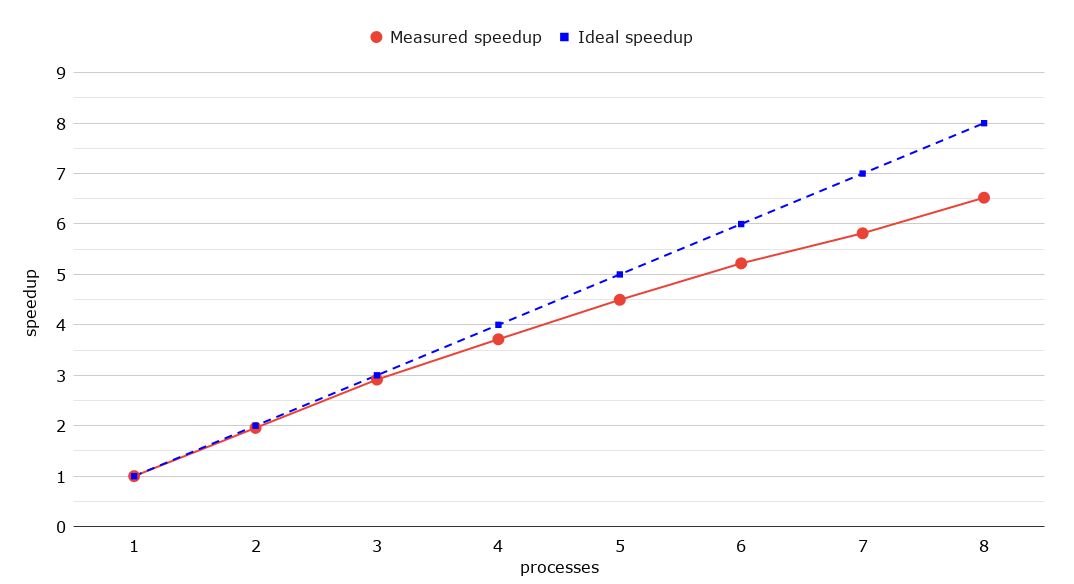
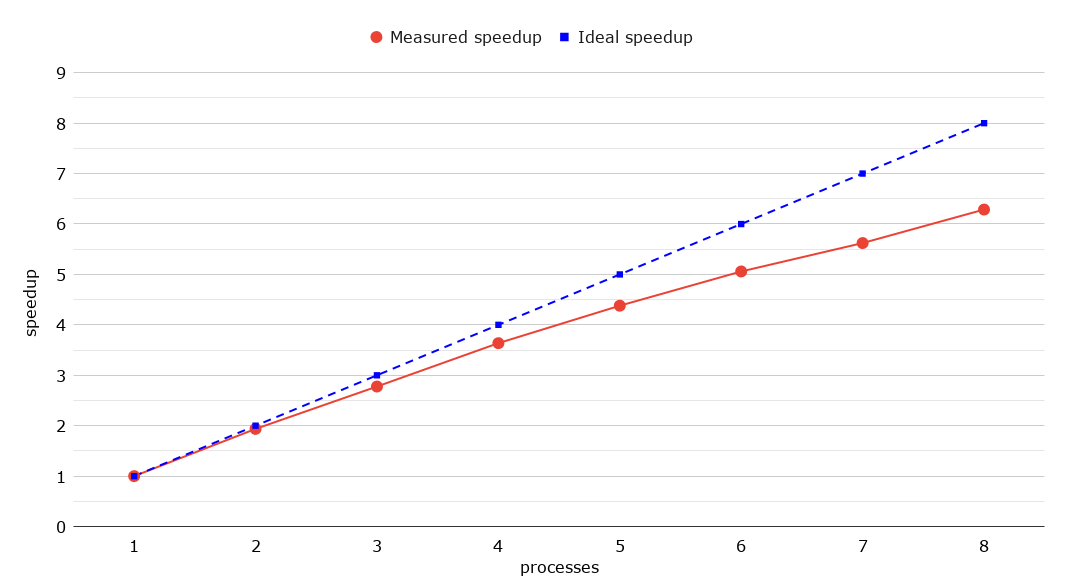
fixes

diff --git a/report/methodology.tex b/report/methodology.tex
@@ -4,10 +4,10 @@ It's easy to notice that the nested $i$ and $j$ for-loops in \textbf{Algorithm \
 could be the \emph{edge under analysis} for another process. For example process $P^1$ is writing in a cell while process $P^2$ is reading from the same cell, leading to a unpredictable final result
 if $P^1$'s writing comes before or after $P^2$'s reading.
 
-It seems that enabling parallelization requires some sort of blocking mechanism between processes, like a semaphore, but we prove that no data race can occur as in the previous example as far as $k$
+It seems that enabling parallelization requires some sort of blocking mechanism between processes, like a semaphore, but we prove that no data race can occur as in the previous example as far as the value of $k$
 is shared between processes. 
 
-Let's assume we have 2 processes, namely $P^1$ and $P^2$ and they have \emph{under analisys} $M_{i,j}$ and $M_{x,y}$ respectively, with $x \neq i$. 
+Let's assume we have 2 processes, namely $P^1$ and $P^2$, and they have \emph{under analisys} $M_{i,j}$ and $M_{x,y}$ respectively, with $x \neq i$ so that each process partitions the matrix horizontally. 
 At any point the following system of preconditions exists (the two inequalities are taken from \textbf{Algorithm \ref*{alg:fw1}} at line 10):
 
 \begin{flalign}\label{eq:sys1}
@@ -20,7 +20,7 @@ P^{2}_{x,y} & > & P^{2}_{x,k} & + & P^{2}_{k,y}
 
 \emph{i.e.} $P^1$ is reading values of $M_{i,k}$ and $M_{k,j}$ so it can decide if $M_{i,j}$ should be overwritten; 
 the same does $P^2$ with $M_{x,k}$, $M_{k,y}$ and $M_{x,y}$ respectively. \\
-In order to have a data race, the following must be true as well
+In order to have a data race, the following statement must be true as well
 
 \[(x = i \wedge k=j) \vee (k = i \wedge y = j)\]
 
@@ -43,12 +43,12 @@ following inequality:
 \end{flalign}
 Clearly no number can be greater than itself and this means that at this point the comparison made by $P^1$ is irrilevant
 and is always evalueted false. If $P^2$ writes after or before $P^1$'s evaluation does not really matter and thus 
-there is no data race as far as $k$ is the same for all the processes.
+there is no data race as far as $k$ is the same for all the running processes.
 
 This is really important because it assures that there is no need for locking mechanism on $M$ when it comes to
 parallelize the nested $i$ and $j$ for-loops and having no blocks guarantees better performance.
 
-So the strategy relies on dividing the matrix by rows and assigning an equal number of rows to each process.
+Now the strategy relies on dividing the matrix by rows and assigning an equal number of rows to each process.
 Once $k$ is set and it's shared among all processes, each process puts \emph{under analysis} every cell
 of its sub-matrix and selects its \emph{intermediate edges} depending on $k$.
 
@@ -64,8 +64,8 @@ Message Passing Interface (MPI) is a standardized and portable message-passing s
 The main strategy is based on scattering horizontally the whole matrix among all the process, so that
 each process can read a portion of the matrix of size $\frac{n^2}{p}$; then a \emph{process of competence}
 is chosen: as $k$ is in common (but never transmitted) to all the processes, there's always a cell in the $k$th
-row representing one of the two intermediate vertices for any process and there's always one process to which this row was assigned.
-The value $k$ is always "synchronized" between process because each for-loop involving $k$ starts with a collective communication
+row representing one of the two intermediate vertices for any process and there's always one process which this row was assigned to.
+The value $k$ is always "synchronized" among processes because each for-loop involving $k$ starts with a collective communication
 which implies a synchronization point among processes.
 
 \begin{figure}[h!]
@@ -75,7 +75,7 @@ which implies a synchronization point among processes.
 \caption{View of the data each thread can reach}                                                                                                                                            
 \label{fig:threads}                                                                                                                                                           
 \end{figure}
-Everytime $k$ changes, the $k$th row is broadcasted to the other processes by the process that owns the row;
+Everytime $k$ changes, the $k$th row is broadcasted by the \emph{process of competence} (the process that "owns" the row) to the other processes;
 a total of $k$ \texttt{MPI\_Bcast} operations are required. \par
 Once the $k$th row has been received, each process acts like the original FW in the $i$ and $j$ for-loops; obviously
 they each write values in their own local matrix. \par
@@ -130,12 +130,12 @@ the implementation uses 4 bytes to store one \texttt{int} and omitting the overh
 $k = n$                               &  \texttt{MPI\_Bcast}                 &  $4n^2(p-1)$ bytes                    \\ \hline
 1                                     &  \texttt{MPI\_Gather}                &  $4\frac{n^2(p-1)}{p}$ bytes         \\ \hline
 \end{tabular}
-\caption{Execution time of the \emph{MPI} FW}                                                                                                                                            
+\caption{Approximation of the size of each communication for \emph{MPI} FW}                                                                                                                                            
 \label{tab:comm}
 \end{table}
 \par
 
-Total communications can be expressed with the following formula, that can help to calculate the bandwidth of the network
+Total communications can be expressed with the following formula, that can help to calculate the bandwidth of the network required
 for this implementation:
 \[W_{comm} = 4(p-1)(1 + n^2(1 + \frac{2}{p})) \text{ bytes}\]
 This formula is important because the time spent on communications is time taken from the calculation and a network with an inadequate
@@ -151,9 +151,9 @@ $\textasciitilde 5.46$GB transferred  over the entire network; this means that e
 \end{figure}
 
 \textbf{Figure \ref*{fig:mpi-time}} shows the amount of time taken to initialize the MPI cluster and communicate during the execution of the \emph{MPI} FW. In this case a dense 
-$5040\times5040$ matrix is used for input and the MPI cluster was located in a star network with 1Gbps bandwith.
+$5040\times5040$ matrix is used as input and the MPI cluster was located in a star network with 1Gbps bandwith.
 
-The overhead has a quadratic or linear growth with respect to the number of vertices and or the number of processes respectively; 
+The overhead has a quadratic and linear growth with respect to the number of vertices and the number of processes respectively; 
 so with a medium-small matrix the time used in communication can exceed the 10\% of the total computational time. 
 But by increasing the size of the matrix to $12600\times12600$ the time used in communication drops to 4\%, with a total of 50 seconds. Thus the implementation fits well for huge matrixes, rather than medium ones.
 
@@ -265,11 +265,12 @@ workloads. Thus, OpenMP is enriched with a flexible model for
 irregular parallelism, providing parallel while loops and recursive
 data structures. \par
 The main advantage on using OpenMP is the ease of developing parallelisms
-with simple constructs that do not differ too much from the original implementation.
+with simple constructs that (often) do not differ too much from the original implementation.
 
 The snippet at \textbf{Algorithm \ref*{alg:omp}} shows the implementation used in this work: the matrix containing the
-distances between vertices is shared among all the threads, while the 3 nested for-loops are executed
-by each thread indipendentely.
+distances between vertices is shared among all the threads, while the two nested for-loops are executed
+by each thread indipendentely. The $k$th row is extracted by a single thread and shared among the other threads: this
+guarantees a sequential access to the $k$th row faster than accessing the same row directly on $M$, resulting in a speedup of up to $\textasciitilde31\%$.
 
 \begin{algorithm}[h!]
 
@@ -277,6 +278,8 @@ by each thread indipendentely.
 
 \texttt{\#pragma omp parallel num\_threads(t) shared(M, K)} private(k) \\
 \For{$k = 1 \rightarrow n$}{
+	\texttt{\#pragma omp master} \\
+	$K \leftarrow kthRow(M)$ \\
 	\texttt{\#pragma omp for private(i,j) schedule(dynamic)} \\
 	\For{$i = 1 \rightarrow n$}{
 		\For{$j = 1 \rightarrow n$}{
@@ -294,7 +297,8 @@ by each thread indipendentely.
 
 Despite the overhead that the dynamic scheduler entails, in this case it works better than a static one because the
 content of the sub-matrices varies from thread to thread so a group of threads may do more write operations on $M$ and a
-static scheduler would make wait the others until they finish. 
+static scheduler would make wait the others until they finish. We benchmarked a loss in performance from $\textasciitilde7\%$ to $\textasciitilde48\%$ when choosing a static scheduler over
+a dynamic one, depending on the size of the matrix.
  \\
 Also note that the solution does not implement a \texttt{collapse} directive because when we collapse multiple loops, OpenMP turns them into a single loop: there is one
 index that is constructed from \texttt{i} and \texttt{j} using division and modulo operations. This can
@@ -313,8 +317,8 @@ with the vertice under analysis for Thread 1 and Thread 2 respectively.
 \end{figure}
 
 
-We prove that no race condition may appear in this case. 
-No race condition can appear if $k$ is the same among the threads and threrfore there's no need to verify atomicity of the write operation;
+We already proved that no race condition may appear in this case. 
+No race condition can occur if $k$ is the same among the threads and threrfore there's no need to verify atomicity of the write operation;
 the lack of OpenMP directive like \texttt{atomic} or \texttt{critical} plays in favor of performance. \par
 
 The speedup of the solution is sligthy worse than the ideal speedup (see \textbf{Figure \ref*{fig:omp-speedup}})
@@ -328,7 +332,7 @@ The speedup of the solution is sligthy worse than the ideal speedup (see \textbf
 \end{figure}
 When scaling from 7 to 8 threads, we notice a slight deviation from the previous (almost) linear trend. That's because the measurement
 is taken from a 8-core/8-thread CPU, namely Intel Core i7-9700K, and because no other cores were free to manage the OS and its subprocesses, the scheduler
-divided this task among all the threads. So we have approximated the speedup without counting the fluctuations due to the management of the OS. \par
+divided this task among all the threads. So we interpolated the speedup, not counting the fluctuations due to the management of the OS. \par
 
 The efficiency, which stays always above $90\%$, is shown in \textbf{Figure \ref*{fig:omp-efficiency}} alongside with its theoretical counterpart.
 
@@ -532,7 +536,7 @@ Because each thread does little computation and uses high memory bandwidth, timi
 to \emph{serial-FW} and \emph{OMP} FW with 8 cores. \\
 In fact from \textbf{Figure \ref*{fig:cuda-time}} we see a speedup up to $87.8$ times compared to \emph{serial} FW
 and $12.34$ times compared to \emph{OMP} FW with 8 cores. We also notice that the maximum speedup is reached when the number of threads per block is equal to 128;
-that's because the occupancy of the Streaming Multiprocessors is at its peak and there are less threads wasted.
+that's because the occupancy of the Streaming Multiprocessors is at its peak and there are less wasted threads.
 \begin{figure}[h!]
 \centering                                                                        
 \includegraphics[width=3.5in]{diagrams/cuda-speedup}
@@ -628,9 +632,9 @@ so that each process can benefit from multithreading.
 broadcast($n$, $ROOT$) \\
 scatter($M$, $processes$)
 
-\texttt{\#pragma omp parallel num\_threads(t) shared(M, k, p)} \\
+\texttt{\#pragma omp parallel num\_threads(t) private(k) shared(M, K, p)} \\
 \For{$k = 1 \rightarrow n$}{
-	\texttt{\#pragma omp single} \\
+	\texttt{\#pragma omp master} \\
 	\If{$rank =$ \textnormal{findOwnerOfKthRow}($k$, $rank$)}{
 		$K \leftarrow $ getRow($M$, $k$) \\
 		broadcast($K$, $owner$) \\

diff --git a/report/implementations.tex b/report/implementations.tex
@@ -15,10 +15,10 @@ The program accepts 2 arguments:
 \begin{lstlisting}[basicstyle=\footnotesize\ttfamily]
 $ ./sequential.out <v> <d>
 \end{lstlisting}
-where \texttt{v} is the number of verteces, expressed ad positive integer, and \texttt{d} is the density of the presence of edges, expressed as an integer from 0 to 100.
+where \texttt{v} is the number of verteces, expressed as positive integer, and \texttt{d} is the density of the presence of edges, expressed as an integer from 0 to 100.
 \par
 The \texttt{gcc} version used for this work is 7.5.0 and the program ran on a Intel Core i7-9700K. \\
-Table \ref*{tab:seq-time} shows the execution time (expressed in milliseconds) depending on the number of vertices.
+\textbf{Table \ref*{tab:seq-time}} shows the execution time (expressed in milliseconds) depending on the number of vertices.
 
 
 \begin{table}[h!]
@@ -38,7 +38,7 @@ Table \ref*{tab:seq-time} shows the execution time (expressed in milliseconds) d
 \label{tab:seq-time} 
 \end{table}
 
-Figure \ref*{fig:seq-time} shows the trend of the execution time. 
+\textbf{Figure \ref*{fig:seq-time}} shows the trend of the execution time. 
 
 \begin{figure}[h!]
 \centering                                                                        
@@ -51,7 +51,7 @@ Figure \ref*{fig:seq-time} shows the trend of the execution time.
 
 It is easy to notice that the graph represents a 
 third grade curve; this is the interpolated function starting from the collected data:
-\[f(n) = 2.22n^3 - 18.83n^2 + 92.14n -94.84 \approx \Theta(n^3) \]
+\[f(n) = 2.22n^3 - 18.83n^2 + 92.14n -94.84 \in \Theta(n^3) \]
 
 
 
@@ -63,13 +63,13 @@ The program is compiled as it follows:
 \begin{lstlisting}[basicstyle=\footnotesize\ttfamily]
 $ mpicc -g -Wall mpi.c -o mpi.out -O3
 \end{lstlisting}
-Like the \emph{serial} version, the program accepts 2 arguments:
+Like the \emph{serial} version, the program accepts 2 arguments + 1 for $\texttt{mpirun}$:
 \begin{lstlisting}[basicstyle=\footnotesize\ttfamily]
 $ mpirun -np <p> mpi.out <v> <d>
 \end{lstlisting}
 The \texttt{MPI} version used for this work is 2.1.1 and the program ran on a cluster of 8 nodes over a LAN. \\
-Table \ref*{tab:mpi-time} shows the execution time (expressed in milliseconds) and the percentage of time spent in initialization and communication, depending on the number of processors; 
-the program computes the \emph{APSP} problem for 5040 vertices.
+\textbf{Table \ref*{tab:mpi-time}} shows the execution time (expressed in milliseconds) and the percentage of time spent in initialization and communication, depending on the number of processors; 
+in this case the program computed the \emph{APSP} problem for 5040 vertices.
 
 \begin{table}[h!]
 \centering
@@ -77,14 +77,14 @@ the program computes the \emph{APSP} problem for 5040 vertices.
 \hline
 \rowcolor[HTML]{F56B00} 
 {\color[HTML]{FFFFFF} \textbf{Processors}} & {\color[HTML]{FFFFFF} \textbf{Execution time}} & {\color[HTML]{FFFFFF} \textbf{MPI \%}} \\ \hline
-1                                          & 90842 ms                                               & 0.06                                 \\ \hline
-2                                          & 46608 ms                                               & 2.57                                 \\ \hline
-3                                          & 31309 ms                                               & 4.45                                \\ \hline
-4                                          & 24457 ms                                               & 5.47                                \\ \hline
-5                                          & 20200 ms                                               & 6.95                                 \\ \hline
-6                                          & 17403 ms                                               & 8.35                                \\ \hline
-7                                          & 15563 ms                                               & 9.12                                 \\ \hline
-8                                          & 13812 ms                                               & 10.1                                \\ \hline
+1                                          & 145447 ms                                               & 0.06                                 \\ \hline
+2                                          & 75059 ms                                               & 2.57                                 \\ \hline
+3                                          & 52336 ms                                               & 4.45                                \\ \hline
+4                                          & 39962 ms                                               & 5.47                                \\ \hline
+5                                          & 33184 ms                                               & 6.95                                 \\ \hline
+6                                          & 28731 ms                                               & 8.35                                \\ \hline
+7                                          & 25853 ms                                               & 9.50                                 \\ \hline
+8                                          & 23120 ms                                               & 11.00                                \\ \hline
 \end{tabular}
 \caption{Execution time of the \emph{MPI} FW}                                                                                                                                            
 \label{tab:mpi-time}
@@ -94,7 +94,7 @@ Timings are captured through \texttt{mpiP} that calculates the percentage of tim
 
 
 \subsection{OpenMP implementation}
-The \emph{MPI} version of the FW algorithm can be found \href{https://github.com/firaja/Parallel-FloydWarshall/blob/master/openmp.c}{here}. 
+The \emph{OpenMP} version of the FW algorithm can be found \href{https://github.com/firaja/Parallel-FloydWarshall/blob/master/openmp.c}{here}. 
 The program is compiled as it follows:
 \begin{lstlisting}[basicstyle=\footnotesize\ttfamily]
 $ g++ -fopenmp openmp.c -o openmp.out -O3
@@ -105,7 +105,7 @@ $ ./openmp.out <v> <d> <t>
 \end{lstlisting}
 where \texttt{t} is the number of threads OpenMP can use for parallelization. \\
 The \texttt{gcc} version used for this work is 7.5.0 and the program ran on a Intel Core i7-9700K, which has 8 core with no Hyper-Threading.
-Table \ref*{tab:omp-time} shows the execution time (expressed in milliseconds) depending on the number of vertices and available cores.
+\textbf{Table \ref*{tab:omp-time}} shows the execution time (expressed in milliseconds) depending on the number of vertices and available cores.
 
 \begin{table}[h!]
 \centering
@@ -125,7 +125,7 @@ Table \ref*{tab:omp-time} shows the execution time (expressed in milliseconds) d
 \end{table}
 
 \subsection{CUDA implementation}
-The \emph{MPI} version of the FW algorithm can be found \href{https://github.com/firaja/Parallel-FloydWarshall/blob/master/cuda.cu}{here}. Alternatively the version 
+The \emph{CUDA} version of the FW algorithm can be found \href{https://github.com/firaja/Parallel-FloydWarshall/blob/master/cuda.cu}{here}. Alternatively the version 
 that uses only global memory is \href{https://github.com/firaja/Parallel-FloydWarshall/blob/master/cuda2.cu}{here}.
 The program is compiled as follows:
 \begin{lstlisting}[basicstyle=\footnotesize\ttfamily]
@@ -160,7 +160,7 @@ Table \ref*{tab:cuda-time} shows the execution time (expressed in milliseconds) 
 
 Using a CPU-based timer would measure only the kernel's launch time and not the kernel's execution time and it would require a host-device synchronization point, like \texttt{cudaDeviceSynchronize()} which stalls the GPU pipeline.
 
-So timings are taken with CUDA events that are created and destroyed with \texttt{cudaEventCreate()} and \texttt{cudaEventDestroy()}. \texttt{cudaEventRecord()} places the start and stop events into the default stream, stream 0 and the device will record a time stamp for the event when it reaches that event in the stream. 
+So timings are taken with CUDA events that are created and destroyed with \texttt{cudaEventCreate()} and \texttt{cudaEventDestroy()}. \texttt{cudaEventRecord()} places the start and stop events into the default stream  and the device will record a time stamp for the event when it reaches that event in the stream. 
 The \texttt{cudaEventElapsedTime()} function returns in the first argument the number of milliseconds time elapsed between the recording events. This value has a resolution of approximately one half microsecond.
 
 

diff --git a/report/terminology.tex b/report/terminology.tex
@@ -1,16 +1,22 @@
 \section{Terminology}
 In this document we use specific terms that refer to specific definitions. Such terms are \emph{emphasized} in order to distingiush them from everyday terms
-and we listed them in this section, which acts as a dictionary. 
+and we listed them in this section, which acts as a dictionary.
+
 \subsubsection*{Edge/cell under analysis} 
-The edge/cell in the distance matrix selected by FW for a given $i$ and $j$.  
+The edge/cell in the distance matrix selected by FW for a given $i$ and $j$. Often noted as $M_{i,j}$ within this document.
+
 \subsubsection*{Intermediate edges} 
-The two edges whose sum must be compared with the edge \emph{under analysis} (line 10 of \textbf{Algorithm \ref*{alg:fw1}}).
+The two edges which sum must be compared with the edge \emph{under analysis} (line 10 of \textbf{Algorithm \ref*{alg:fw1}}).
+They are noted as $M_{i,k}$ and $M_{k,j}$ within this document.
+
 \subsubsection*{Serial FW} 
-The implementation of FW as show in \textbf{Algorithm \ref*{alg:fw1}}: the execution is handled by a singe process/thread.
+The implementation of FW as show in \textbf{Algorithm \ref*{alg:fw1}}: the execution is performed on a single process/thread.
+
 \subsubsection*{Speedup}
-For a given implementation $v$, it is defined as follows:
+For a given implementation $v$ of FW, it is defined as follows:
 \[S_{v} = \frac{T_{s}}{T_{v}}\]
 where $T_v$ is the execution time of the version $v$ of FW and $T_s$ is the execution time of the \emph{serial FW}. 
+
 \subsubsection*{Efficiency}
 For a given implementation $v$, it is defined as follows:
 \[E_v = \frac{S_v}{p}\]

diff --git a/report/intro.tex b/report/intro.tex
@@ -1,6 +1,6 @@
 \section{Introduction and Background}
-The FW is a classic dynamic programming algorithm that solves the \emph{all-pairs shortest path (APSP)} problem on directed weighted
-graphs $G(V, E, w)$, where $V = \{1, \dots, n\}$ is a set of nodes, $E \subseteq V \times V$ are the edges and $w$ is a weight function $E \rightarrow  \mathbb{R}$
+The FW is a classic dynamic programming algorithm that solves the \emph{all-pairs shortest path (APSP)} problem on a directed weighted
+graph $G(V, E, w)$, where $V = \{1, \dots, n\}$ is a set of nodes, $E \subseteq V \times V$ are the edges and $w$ is a weight function $E \rightarrow  \mathbb{R}$
 that expresses the cost of crossing two nodes. The number of nodes is denoted by $n$ and the number of edges by $m$ . \par
 The output of the algorithm is typically in matrix form: the entry in the $i$th row and $j$th column is the weight of the shortest path between
 nodes $i$ and $j$. FW runs in $\Theta(|V|^3)$ time and for this reason is a good choiche when working with dense graph: even though there

diff --git a/openmp.c b/openmp.c
@@ -62,15 +62,20 @@ void floydWarshall(int* matrix, uint n, int threads)
 {
 	int i, j, k;
 
-    #pragma omp parallel num_threads(threads) private(k) shared(matrix)
+	int *rowK = (int*)malloc(sizeof(int)*n);
+
+    #pragma omp parallel num_threads(threads) private(k) shared(matrix, rowK)
     for (k = 0; k < n; k++) 
     {
-        #pragma omp for private(i, j) schedule(dynamic)
+    	#pragma omp master
+    	memcpy(rowK, matrix + (k * n), sizeof(int)*n);
+        
+        #pragma omp for private(i, j) schedule(static)
         for (i = 0; i < n; i++) 
         {
             for (j = 0; j < n; j++) 
             {
-                int newPath = matrix[i * n + k] + matrix[k * n + j];
+                int newPath = matrix[i * n + k] + rowK[j];
                 if (matrix[i * n + j] > newPath)
                 {
                     matrix[i * n + j] = newPath;
